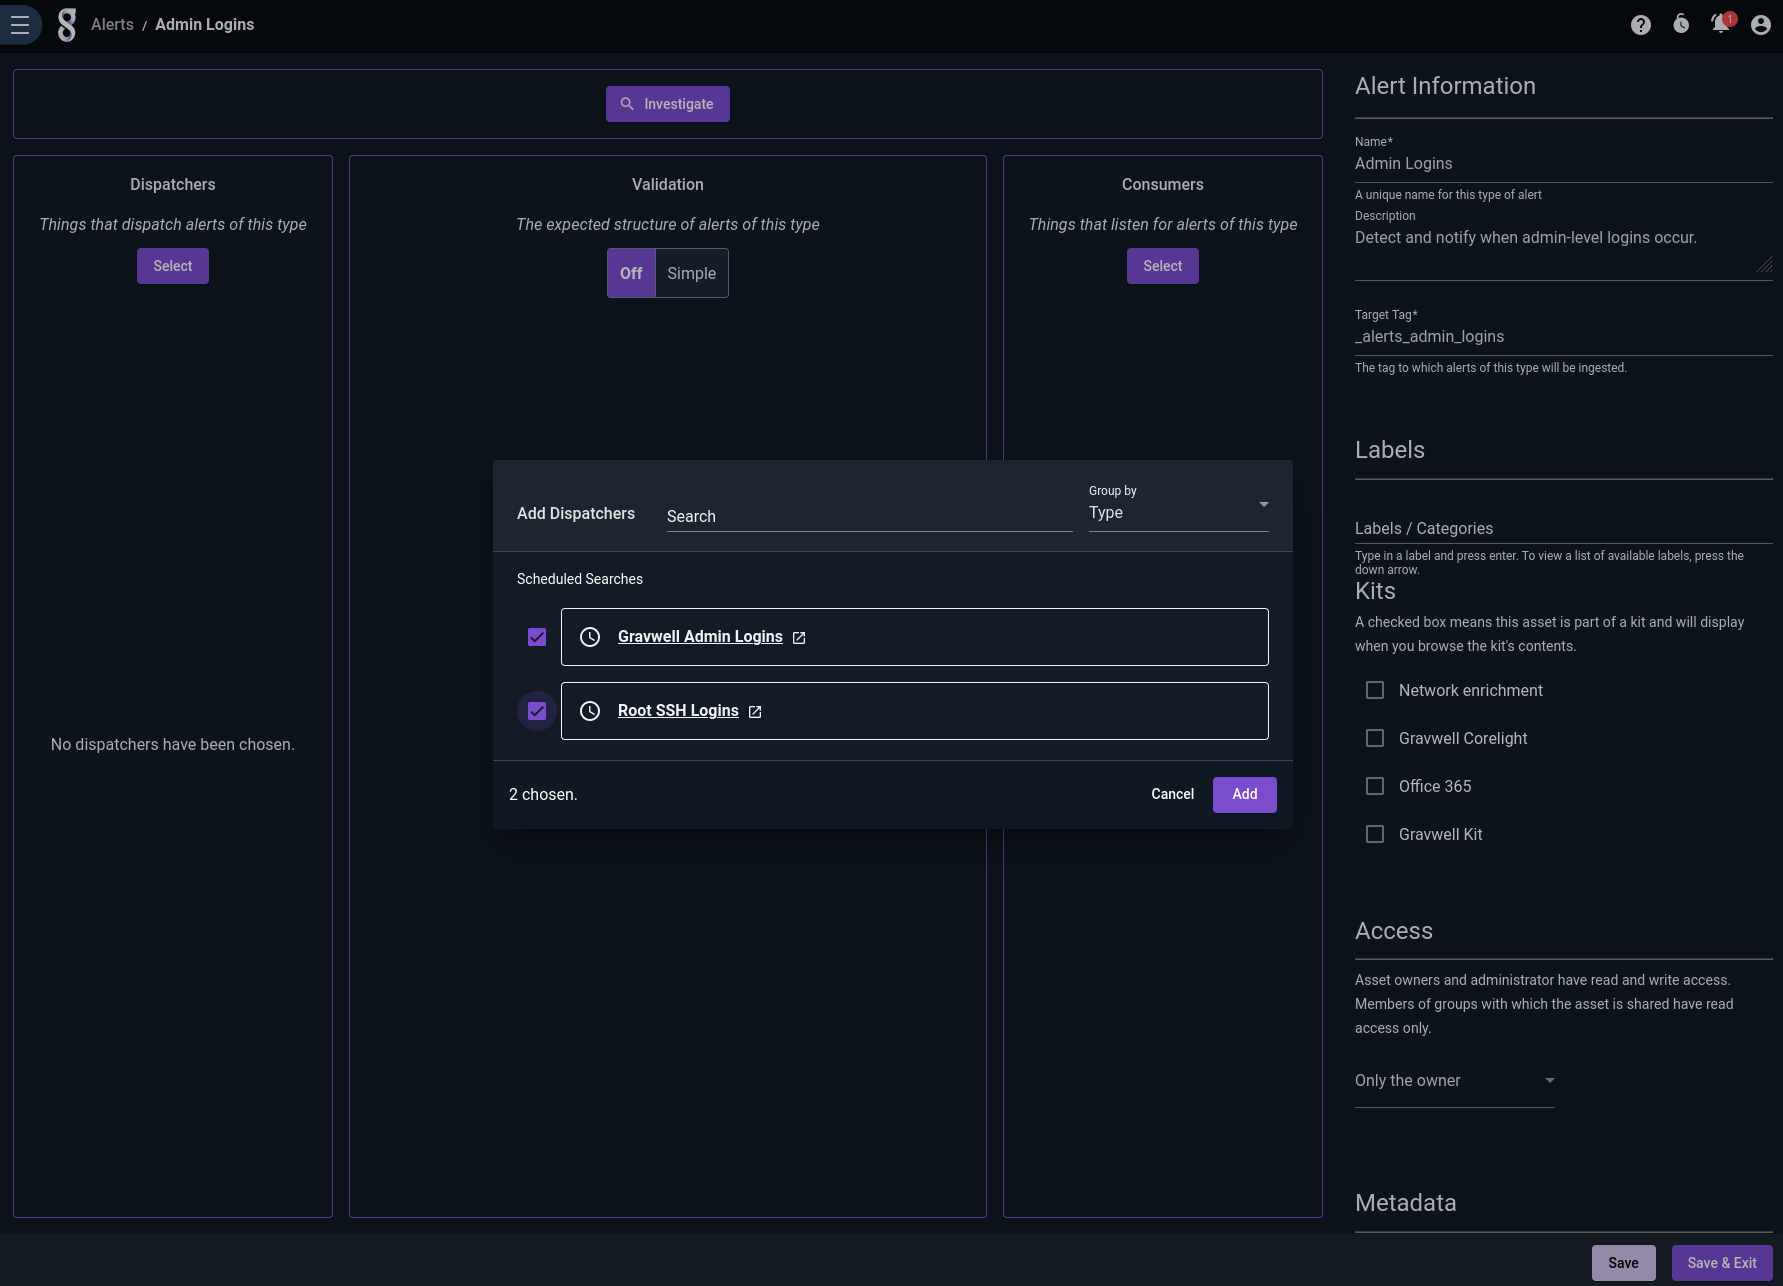
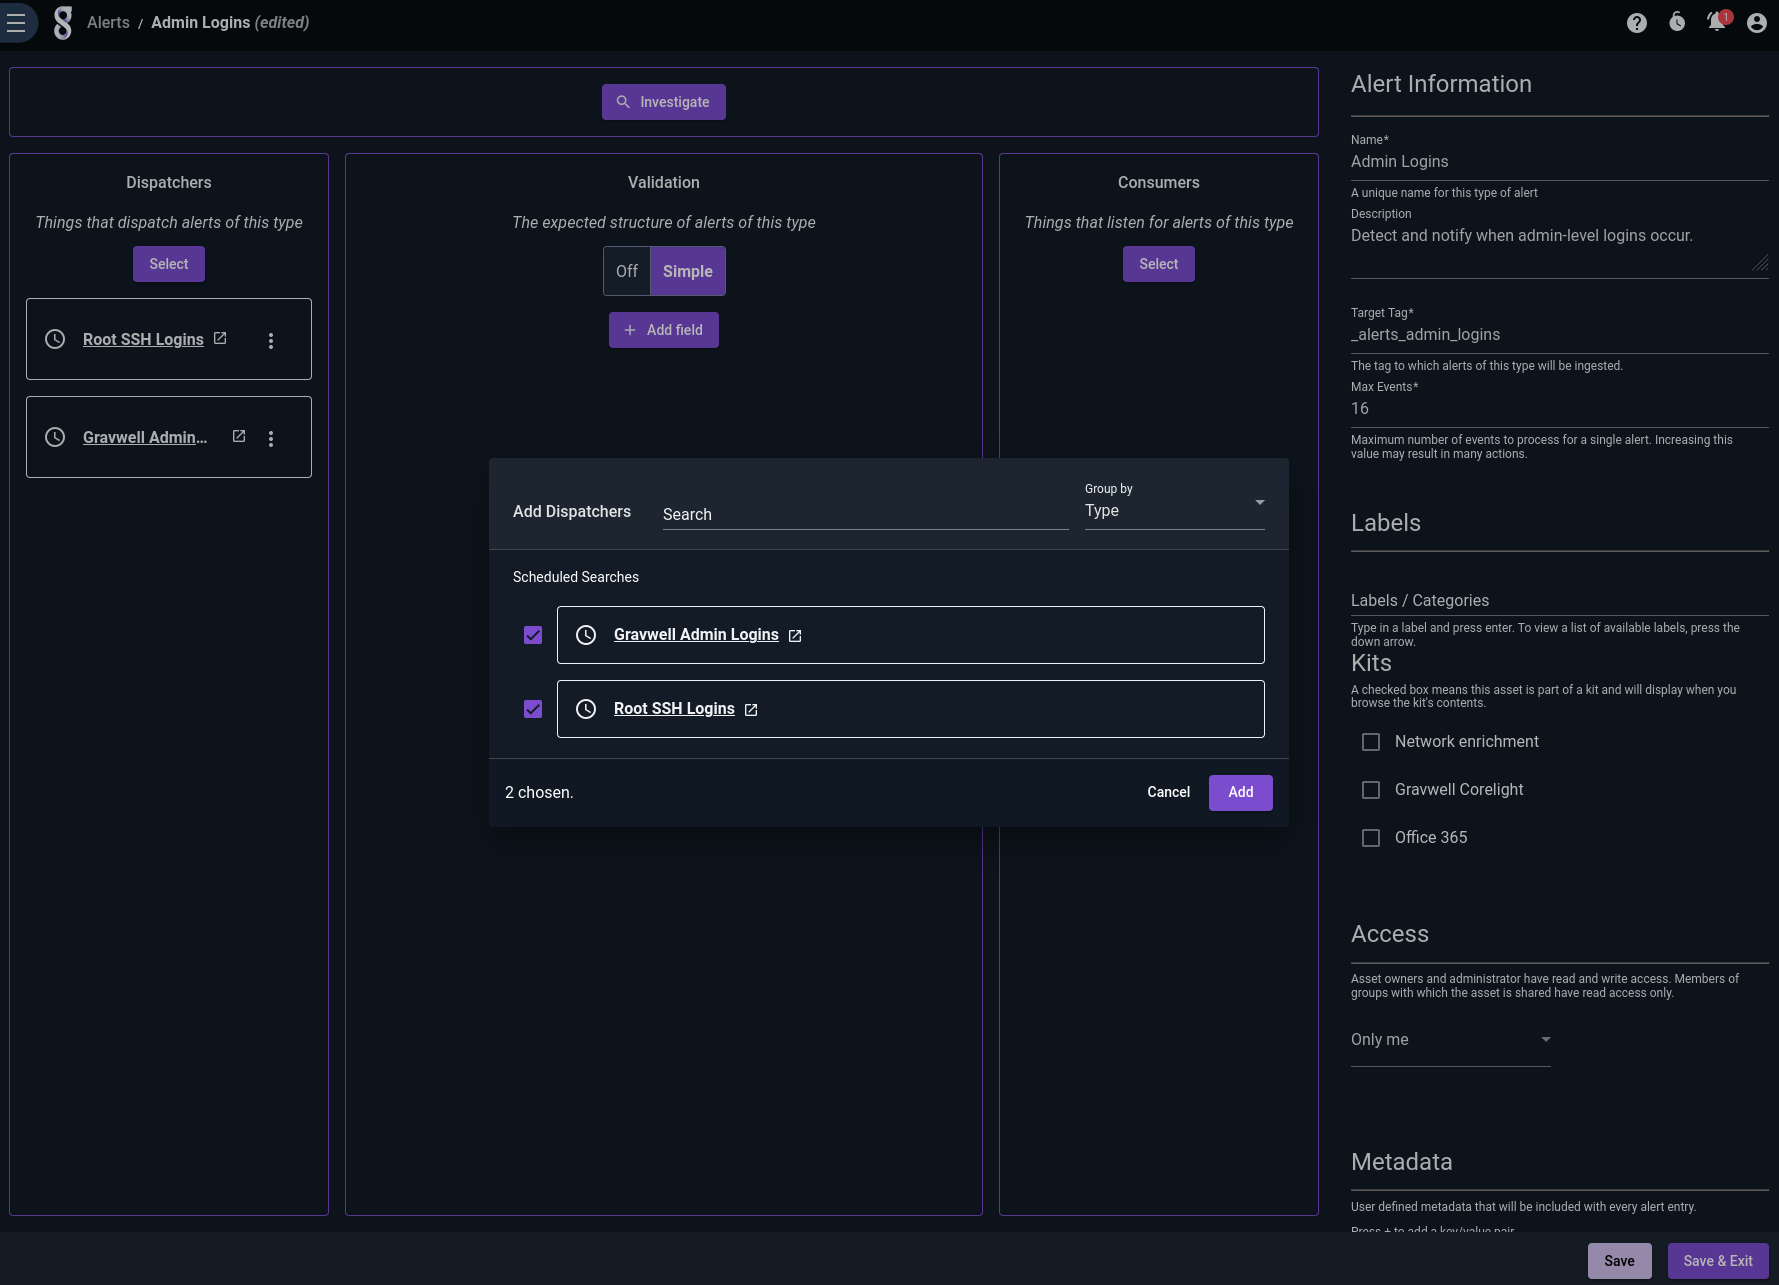
update to document max events

diff --git a/alerts/alerts.md b/alerts/alerts.md
@@ -1,6 +1,6 @@
 # Alerts
 
-Alerts are a Gravwell feature which allow the user to tie sources of intelligence (such as periodic [scheduled searches](/scripting/scheduledsearch)) to actions (such as a [flow](/flows/flows) that files a ticket). This can make it much simpler to take automatic action when something of interest occurs.
+Alerts are a Gravwell feature which allow the user to tie sources of intelligence (such as periodic [scheduled searches](/scripting/scheduledsearch)) to actions (such as a [flow](/flows/flows) that files a ticket). This can make it much simpler to take automatic action when something of interest occurs; rather than defining multiple flows which each run a query and send an email if there are results, you can define a single flow which sends an email, then trigger it with any one of many scheduled searches.
 
 Some basic terminology:
 
@@ -19,7 +19,17 @@ Alerts are defined in the Alerts page, found under the Automation sub-menu. Clic
 
 ![](newalert.png)
 
-Note that we have populated the Name, Description, and Target Tag fields, but nothing else yet -- we need to go define our dispatchers and consumers before we can add them to the alert.
+Note that we have populated the Name, Description, Target Tag, and Max Events fields, but nothing else yet -- we need to go define our dispatchers and consumers before we can add them to the alert.
+
+### Max Events
+
+The "Max Events" configuration option is an important safeguard against accidentally sending yourself thousands of emails. Basically, when a dispatcher fires, Gravwell will only process *up to* Max Events results from the search. Suppose you have a scheduled search dispatcher which normally generates one or two results, which are emailed out via a flow consumer. If a new data source is added and the scheduled search suddenly returns thousands of results each time, you could be getting thousands of emails -- unless you've been cautious and set Max Events to a low value!
+
+Gravwell sets a very low default for Max Events, because it is extremely easy to misjudge your dispatchers and generate too many events! The option can go up to 8192, which should be more than enough; if you need more events per dispatcher trigger, alerts might not be the right solution for that particular use case.
+
+```{note}
+Setting Max Events to 0 is equivalent to setting it to 8192, the max value
+```
 
 ### Selecting a Tag
 
